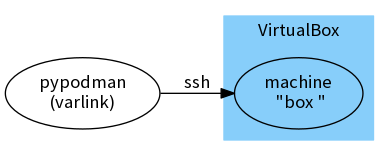
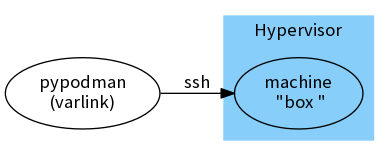
Make documentation less VirtualBox-centric
Replace "VirtualBox" with generic "Hypervisor"

Changed region(s): [[0.6462, 0.1538, 0.8923, 0.2564]]

diff --git a/README.md b/README.md
@@ -31,7 +31,7 @@ Additional VM environments are possible too, after installing third party machin
 ## Getting Started
 
 ``` console
-$ podman-machine create -d virtualbox box
+$ podman-machine create box
 Running pre-create checks...
 Creating machine...
 (box) Creating VirtualBox VM...
